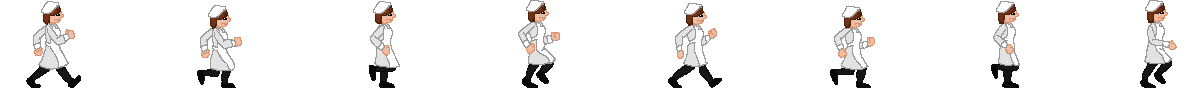
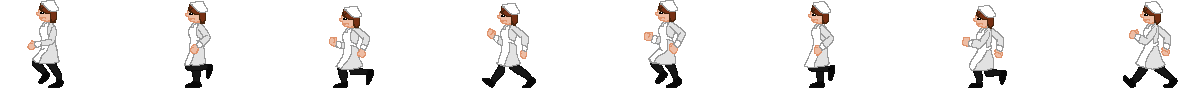
Added standing graphics, started work on accompanying code

diff --git a/GMTB/The_Infirmary/Levels/L1.cs b/GMTB/The_Infirmary/Levels/L1.cs
@@ -28,18 +28,18 @@ namespace The_Infirmary.Levels
                 mSceneManager.newEntity(createdEntity, 10, 280);
                 Removables.Add(createdEntity.UID, createdEntity);
 
-				//// Old Man
-				//createdEntity = mEntityManager.newEntity<Characters.OldMan.OldMan>("Characters/OldMan/walkL");
-    //           // X, Y coordinates
-    //            mSceneManager.newEntity(createdEntity, 150, 280); //Change coordinates
-    //            Removables.Add(createdEntity.UID, createdEntity);
+                // Old Man
+                createdEntity = mEntityManager.newEntity<Characters.OldMan.OldMan>("Characters/OldMan/standL");
+                // X, Y coordinates
+                mSceneManager.newEntity(createdEntity, 150, 280); //Change coordinates
+                Removables.Add(createdEntity.UID, createdEntity);
 
-                //// Nurse
-                //createdEntity = mEntityManager.newEntity<Characters.Nurse.Nurse>("Characters/Nurse1/walkL");
-                //// X, Y coordinates
-                //mSceneManager.newEntity(createdEntity, 700, 280); //Change coordinates
-                //createdEntity.setVars("nurse");
-                //Removables.Add(createdEntity.UID, createdEntity);
+                // Nurse
+                createdEntity = mEntityManager.newEntity<Characters.Nurse.Nurse>("Characters/Nurse1/standL");
+                // X, Y coordinates
+                mSceneManager.newEntity(createdEntity, 700, 280); //Change coordinates
+                createdEntity.setVars("nurse");
+                Removables.Add(createdEntity.UID, createdEntity);
 
                 // Door
                 createdEntity = mEntityManager.newEntity<Door>("blank");

diff --git a/GMTB/The_Infirmary/Characters/Nurse/Idle.cs b/GMTB/The_Infirmary/Characters/Nurse/Idle.cs
@@ -20,6 +20,13 @@ namespace The_Infirmary.Characters.Nurse
         public Idle(IAIMind _mind) : base(_mind)
         {
         }
+        public override void Reactivate()
+        {
+            base.Reactivate();
+            IAnimation _animation = mMind.MySelf as IAnimation;
+            _animation.Frames = 1;
+            _animation.Columns = 1;
+        }
         /// <summary>
         /// Main Draw Loop
         /// </summary>
@@ -35,6 +42,12 @@ namespace The_Infirmary.Characters.Nurse
         /// <param name="_gameTime">Reference to the current GameTime</param>
         public override void Update(GameTime _gameTime)
         {
+            
+            if (mMind.MySelf.CurrentDirection == GMTB.Entities.FacingDirection.Right)
+                mMind.MySelf.Texturename = "Characters/Nurse1/standR";
+            else if (mMind.MySelf.CurrentDirection == GMTB.Entities.FacingDirection.Left)
+                mMind.MySelf.Texturename = "Characters/Nurse1/standL";
+
             mMind.MySelf.Moving = false;
             if (mMind.Target != null)
             {

diff --git a/GMTB/The_Infirmary/Characters/Nurse/Persue.cs b/GMTB/The_Infirmary/Characters/Nurse/Persue.cs
@@ -26,6 +26,13 @@ namespace The_Infirmary.Characters.Nurse
             mPath = new Queue<Point>();
 
         }
+        public override void Reactivate()
+        {
+            base.Reactivate();
+            IAnimation _animation = mMind.MySelf as IAnimation;
+            _animation.Frames = 8;
+            _animation.Columns = 8;
+        }
         /// <summary>
         /// Main Draw Loop
         /// </summary>
@@ -42,6 +49,11 @@ namespace The_Infirmary.Characters.Nurse
         /// <param name="_gameTime">Reference to the current GameTime</param>
         public override void Update(GameTime _gameTime)
         {
+            if (mMind.MySelf.CurrentDirection == GMTB.Entities.FacingDirection.Right)
+                mMind.MySelf.Texturename = "Characters/Nurse1/walkR";
+            else if (mMind.MySelf.CurrentDirection == GMTB.Entities.FacingDirection.Left)
+                mMind.MySelf.Texturename = "Characters/Nurse1/walkL";
+
             mMind.MySelf.Moving = true;
             mMind.MySelf.ApplyForce(PlotPath());
 

diff --git a/GMTB/GMTB/Entities/AI/BasicAI.cs b/GMTB/GMTB/Entities/AI/BasicAI.cs
@@ -38,6 +38,11 @@ namespace GMTB.Entities.AI
         {
             set { mTexturename = value; }
         }
+        /// Lets behaviours see current direction
+        public FacingDirection CurrentDirection
+        {
+            get { return mCurrDir; }
+        }
         #endregion
 
         #region Constructor
@@ -78,6 +83,9 @@ namespace GMTB.Entities.AI
         {
             mMind.Draw(_spriteBatch, _gameTime);
             base.Draw(_spriteBatch, _gameTime);
+
+            if (mTexture.Name != mTexturename)
+                mTexture = mContentManager.ApplyTexture(mTexturename);
         }
         /// <summary>
         /// Locate the specified AI target

diff --git a/GMTB/The_Infirmary/Characters/Nurse/Nurse.cs b/GMTB/The_Infirmary/Characters/Nurse/Nurse.cs
@@ -42,12 +42,6 @@ namespace The_Infirmary.Characters.Nurse
         public override void Update(GameTime _gameTime)
         {
             base.Update(_gameTime);
-            if (mCurrDir == GMTB.Entities.FacingDirection.Right)
-                mTexture = mContentManager.ApplyTexture("Characters/Nurse1/walkR");
-            else if (mCurrDir == GMTB.Entities.FacingDirection.Left)
-                mTexture = mContentManager.ApplyTexture("Characters/Nurse1/walkL");
-
-            
         }
     }
 }

diff --git a/GMTB/GMTB/Interfaces/IBasicAI.cs b/GMTB/GMTB/Interfaces/IBasicAI.cs
@@ -28,6 +28,8 @@ namespace GMTB.Interfaces
         Vector2 Acceleration { set; }
         /// Current AI Target
         AITarget Target { get; }
+        /// Lets behaviours see current direction
+        GMTB.Entities.FacingDirection CurrentDirection { get; }
         /// <summary>
         /// Get the position of the specified target
         /// </summary>
